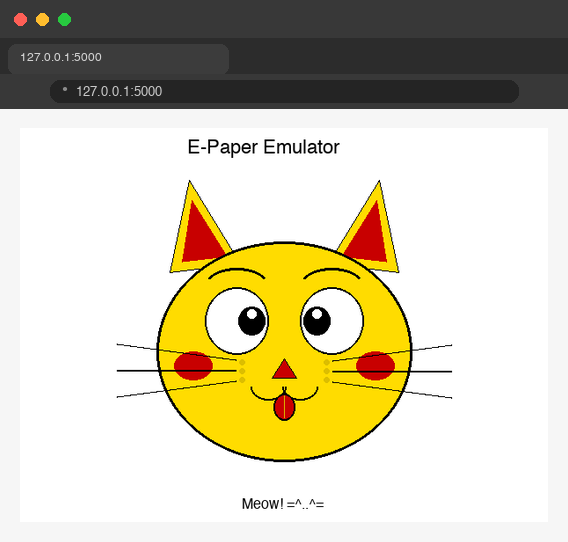
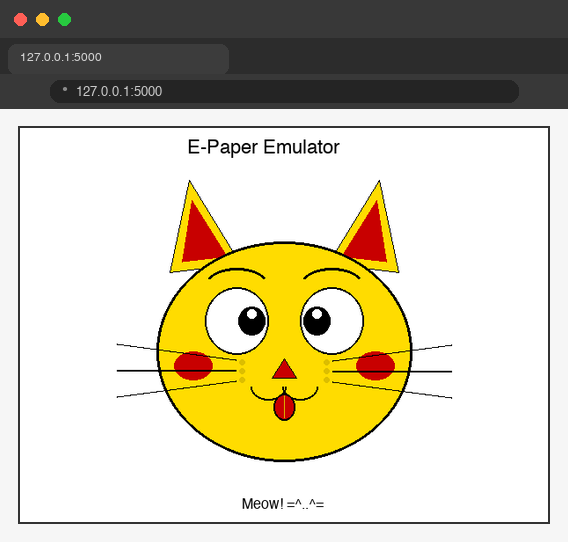
Add border around display image in Flask view

Changed region(s): [[0.0299, 0.2066, 0.9877, 0.9742]]

diff --git a/generate_cat_screenshots.py b/generate_cat_screenshots.py
@@ -261,6 +261,13 @@ def create_browser_screenshot(cat_img, output_path):
     )
     paste_x = (browser_w - scaled_w) // 2
     paste_y = chrome_h + padding
+    # Border around display image
+    border_color = (51, 51, 51)
+    draw.rectangle(
+        [(paste_x - 2, paste_y - 2),
+         (paste_x + scaled_w + 1, paste_y + scaled_h + 1)],
+        outline=border_color, width=2
+    )
     img.paste(cat_scaled, (paste_x, paste_y))
 
     img.save(output_path)

diff --git a/epaper_emulator/emulator.py b/epaper_emulator/emulator.py
@@ -91,6 +91,7 @@ class EPD:
                         #screenImage {{
                             width: 50%;
                             height: auto;
+                            border: 2px solid #333;
                         }}
                     </style>
                     <script>
